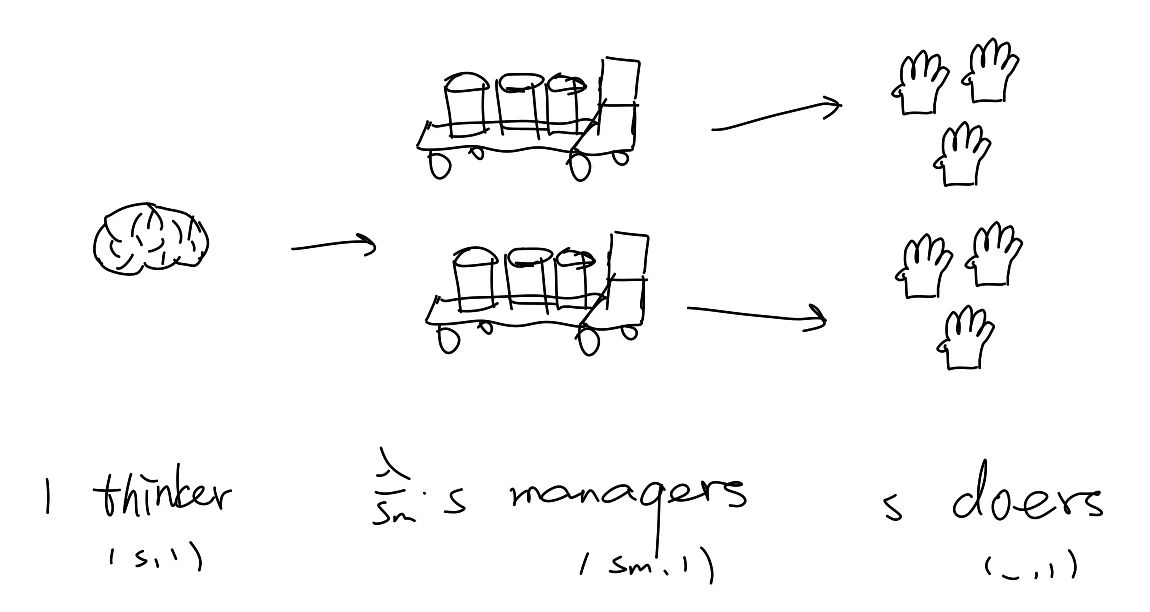
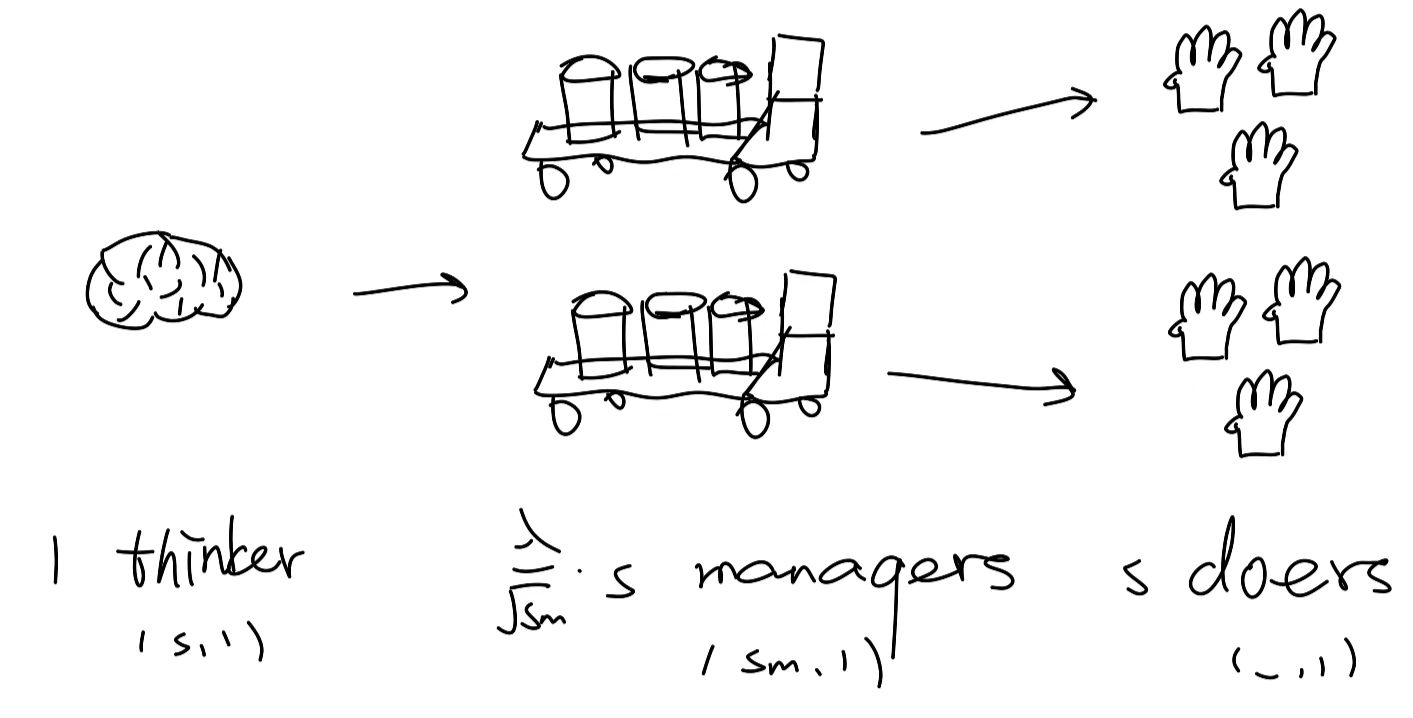
Modification: think_do_2.md.

diff --git a/cuties/think_do_2.md b/cuties/think_do_2.md
@@ -5,6 +5,8 @@ permalink: /cuties/think_do_2/
 produced_at: 28 Oct 2025
 ---
 
+*Update: The production function of managers is modified. Contents are also polished for better readability. (Dec 3, 2025)*
+
 ## Story in One Paragraph
 
 > The person who combines the two is the one who makes the connection. $[\dots]$ He understands how the yogis think and work. He knows the sort of ideas you can ask them to have and the sort you cannot. He knows the conditions and circumstances that are conductive to the production of ideas, and the sort that are inhibiting. He knows when they are genuinely stuck and when they are just slacking off.
@@ -14,44 +16,44 @@ produced_at: 28 Oct 2025
 
 ## The New Role: Managers
 
-In the previous post, we have seen how people with different skills can meet together and produce somewhat more efficiently ([here](https://zehao-here.github.io/projects/cuties/think_do/)). However, ideas from the thinkers or designers often seem too abstract or impractical for the doers to execute. For example, imagine smartphone designers come up with a sleek design: a phone with glass all the way to the edges and almost no borders. But when this idea reaches the factory, the engineers point out that details like how the glass bends, how wide the glue is, and how precisely pieces need to fit together make the phone easy to break and difficult to build. Clearly, a product manager is needed to bridge this gap.
+In our previous post, people with different skills meet together and produce more efficiently ([here](https://zehao-here.github.io/projects/cuties/think_do/)), a fairy tale about comparative advantage. We continue the fairy tale by introducing a new character, the `manager`, in our story.
 
-We now introduce product managers to our model, which is termed as a `manager` between the thinkers and the doers. The job of a manager is to modify the intermediate good produced by the thinkers, making sure that it is conceivable or practical enough for the doers to execute. Accordingly, there comes to our model a new kind of intermediate goods that need to be produced after the ideas and before the final product. We call these intermediate goods `plans`. For a type $(s, e)$ individual, we assume that he can at most convert $\frac{1}{\lambda}se$ units of ideas into plans, $\lambda > 0$. This function form reflects the fact that coming up with a good bridging plan requires both thinking and doing skills. For ease of exposition, we continue to assume that everyone in the economy has $e \equiv 1$.
+Ideas from thinkers often seem too abstract or impractical for doers to execute. A well-known example comes from Boeing’s 777 program in the early 1990s. Top executives and airline customers agreed on a memo that promised a “truly great airplane” with the best dispatch reliability and customer appeal in the industry, plus new technologies like fly-by-wire controls and a fully digital design—all on an aggressive schedule. Engineers and factory teams worried that this wish-list was unrealistic, especially given Boeing’s old way of working, where designers threw drawings “over the wall” and left manufacturing to fix the problems late in the process. Alan Mulally, the program manager, and a layer of design-build team leaders then acted as middle managers: they formed cross-functional teams that co-located designers, production engineers, suppliers and airline representatives and negotiated trade-offs between the grand vision and what the doers could actually build. Boeing's success in the 777 program is largely attributed to the effective coordination of these middle managers.[^1]
 
-Let's make clear the production process. For a solo worker, we also assume that he needs to produce the plans. Indeed, even when someone acts alone, some forethought or planning is necessary before executing the final work. Thus, for an $(s, e)$ individual, the optimal speed of production is $\frac{1}{\frac{1}{s} + \frac{\lambda}{s} + 1} = \frac{s}{s + \lambda + 1}$. The meaning of the denominator is that producing one unit of final product requires $\frac{1}{s}$ units of time on thinking, $\frac{\lambda}{s}$ units of time on planning, and $1$ unit of time on doing.
+Back to our model. A (product) `manager` now stands between the thinker and the doer. The job of a manager is to modify the intermediate good produced by the thinkers, making sure that it is conceivable or practical enough for the doers. Accordingly, we assume in our model a new kind of intermediate goods that need to be produced after the ideas and before the final product. We call these intermediate goods `manuals`. For a type $(s, e)$ individual, we assume that he can at most convert $\frac{1}{\lambda}\sqrt{se}$ units of ideas into manuals, $\lambda > 0$. This function form reflects the fact that coming up with a good bridging manual requires both thinking and doing skills. For ease of exposition, we continue to assume that everyone in the economy has $e \equiv 1$.
+
+Let's make clear the production process. We assume that a solo worker still needs to produce the manuals. Indeed, some forethought or planning is necessary even if one works alone. For an $(s, e)$ solow worker, the maixmal speed of value creation (which values $1$) is $\frac{1}{\frac{1}{s} + \frac{\lambda}{\sqrt{s}} + 1}$. The denominator means that to produce one unit of final product requires $\frac{1}{s}$ units of time optimally allocated to thinking, $\frac{\lambda}{\sqrt{s}}$ units of time to producing a manual, and $1$ unit of time optimally allocated to doing.
 
 <div class="image-single">
     <img src="{{ '/cuties/figs/think_do_2/solo_production.jpg' | relative_url }}" alt="Solo production" />
 </div>
+<p style="text-align: center;"><em>Figure: Solo Production Process</em></p>
 
-A firm now consists of n thinker, one or several managers and a number of doers. We continue to assume that the thinker is the employer competitively hiring managers and doers. The wage for a manager of a thinking level $s$ is denoted $w_m(s)$, and the wage for a doer of a doing level $e$ is denoted $w_d(e)$. Again, every individual in the economy can either be a thinker, a doer, a manager or a solo worker.
+A firm consists of one thinker, several managers and a number of doers. We continue to assume that the thinker is the employer competitively hiring managers and doers, so she always has perfect bargaining power. The wage for a manager of a thinking level $s$ is denoted $w_m(s)$, and the wage for a doer of a doing level $e$ is denoted $w_d(e)$. Every individual in the economy freely chooses his role, which can be either a thinker, a manager, a doer or a solo worker.
 
 ## Analysis
 
 I have not completed formal proofs for the following results, but I hope the intuitions hold.
 
-The employer (thinker) can always appropriate a positive share from one single final product, so he would produce $s$ ideas per unit of time, exploiting his thinking skills, and hire enough managers and doers. The number of managers is determined by the thinker's thinking level $s$ and their own speed of planning $\frac{s_m}{\lambda}$. Assuming homogenous managers in a firm, with a thinking level $s$ employer, the number of managers $n$ is given by $\frac{s}{n} / \frac{s_m}{\lambda} =  1$. In words, the thinking uses up the manager's time by giving him $\frac{s}{n}$ units of ideas per unit of time. The number of doers, since we have $e = 1$ for all people, is then $s$. 
+The employer (thinker) can always appropriate a positive share from one single final product, so he would produce $s$ ideas per unit of time, exploiting his thinking skills, and hire enough managers and doers. Assuming homogenous managers in a firm, with a thinking level $s$ employer, the number of managers $n$ with thinking level $s_m$ is given by $\frac{s}{n} / \frac{\sqrt{s_m}}{\lambda} =  1$. In words, the thinking uses up the manager's time by giving him $\frac{s}{n}$ units of ideas per unit of time. The number of doers, since we have $e = 1$ for all people, is then $s$. 
 
-We then naturally obtains a hierarchical firm, where due to the production sequence, the thinker is at the top, the managers are in the middle, and the doers are at the bottom.
+We then naturally has a hierarchical firm structure where due to the production sequence, the thinker is at the top, the managers are in the middle, and the doers are at the bottom.
 
 <div class="image-single">
     <img src="{{ '/cuties/figs/think_do_2/firm_structure.jpg' | relative_url }}" alt="Firm structure" />
 </div>
 <p style="text-align: center;"><em>Figure: Hierarchy Structure in a Firm</em></p>
 
-The equilibrium wage and occupational stratification can also be derived similarly. Intuitively, since individuals have homogenous doing, those who have relatively the least of thinking levels in the economy will become doers and receive a uniform wage, which amounts to the outside option value of the doer residing at the cutoff level ($\frac{s_1}{s_1 +\lambda +1}$, where $s_1$ is the cutoff level between doers and managers/thinkers). It's just like what happens in our previous model.
+The occupational stratification and wage in equilibrium can be derived similarly in the previous post. Intuitively, since our individuals have homogenous doing skills, the logic of comparative advantage requires those who have relatively the least thinking skills to become doers. People with moderate thinking skills = become managers, and those with relatively high thinking skills specialize in producing ideas. We use $s_1$ and $s_2$ to denote the cutoff values for thinking skills between doers and managers, and between managers and thinkers, respectively.
 
-The wage for managers will be proportional to their thinking levels, which arises from the fact that a $2s_m$ manager just works as if there were two managers with $s_m$ thinking levels, and the competitive market drives the wage to be proportional. As a result, the wage function for managers take a simple form of $w_m(s) = \alpha s$. Also, remember that for the individual at $s_1$, he is indifferent between being a doer and a manager, so immediately we have $\alpha = \frac{1}{s_1 + \lambda + 1}$.
-
-However, there seems to be no clear stratification between managers and thinkers. We have obtained the wages for managers. Taking one step further, you may find that the profit of employers (thinkers) is also given by $\pi(s) = \frac{s}{s_1 + \lambda + 1}$, which takes the same form as that for managers. To derive this, one can always calculate the profit of an employer with type $s$ when he hires $s$ doers and just enough managers of thinking level $s_1$. This calculation is always valid when we have homogenous doing and perfectly divisible managers.[^1]
-
-Finally, it is interesting to see how the value of one single final product is distributed between the doers, managers and thinkers. With $e = 1$, each doer's share of a final product is exactly his wage, $\frac{s_1}{s_1 + \lambda + 1}$. A manager with type $s_m$ receives a wage of $\frac{s_m}{s_m + \lambda + 1}$, whereas he works with $\frac{\lambda}{s_m}$ units of ideas per unit of time (the inverse of his planning speed), so his share of one product is $\frac{\lambda}{s_m + \lambda + 1}$. The thinker gets the remaining $\frac{1}{s_1 + \lambda + 1}$ from one product.
-
+Equilibrium wages are interesting when `managers` come to the economy. Before diving into wages, it's interesting to consider how the value of one single final product is distributed between the doers, managers and thinkers. Remember that we have three types of goods in the economy: ideas, manuals and final products. Thinkers hire managers and doers who produce manuals and finalize products, respectively. Competitive market essentially requires that the unit price of the *services* provided by managers and doers is all equal in the economy. And the wages earned by managers and doers are equal to the speed of providing their *services*. The figure below illustrates the value distribution of a final product.
 
 <div class="image-single">
     <img src="{{ '/cuties/figs/think_do_2/share_allocation.jpg' | relative_url }}" alt="Value distribution of a final product" />
 </div>
 <p style="text-align: center;"><em>Figure: Value Distribution of a Final Product</em></p>
 
+It's somewhat surprising to note that the coming of managers drives the wages up, exceeding what they would earn as solo workers. The reason is thinkers need to incentivize people to work as managers for otherwise they would find it more profitable to set up their own firms and work as thinkers. This in turn increase the wages for the doer market where employers heavily compete for the resource of doing.
 
-[^1]: If we allow heterogeneous doing, the picture might be slightly different, and we will discuss this in the next post.
+
+[^1]: Sharma, K. J., & Bowonder, B. (2004). The making of Boeing 777: A case study in concurrent engineering. *International Journal of Manufacturing Technology and Management*, 6(3–4), 254–264. GPT-5.1 suggested this example.

diff --git a/index.md b/index.md
@@ -18,7 +18,7 @@ cuties_items:
   - file: cuties/search_bench.md
     title: Search or Bench
   - file: cuties/two_bosses.md
-    title: Please the Difficult Boss First
+    title: Bernard's Decision
   - file: cuties/referral.md
     title: Recommending My Friend
 ---
